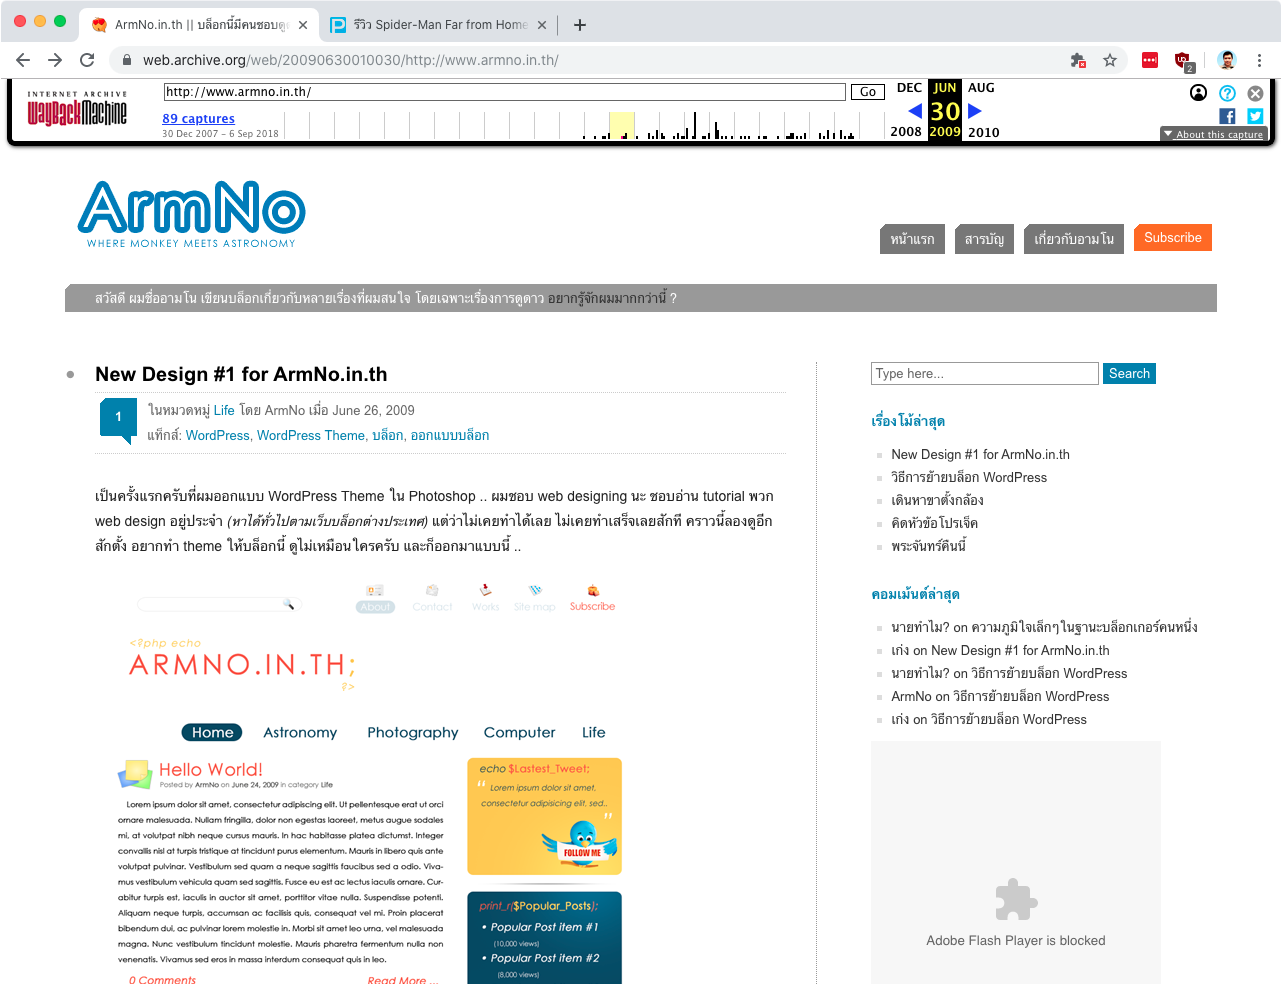
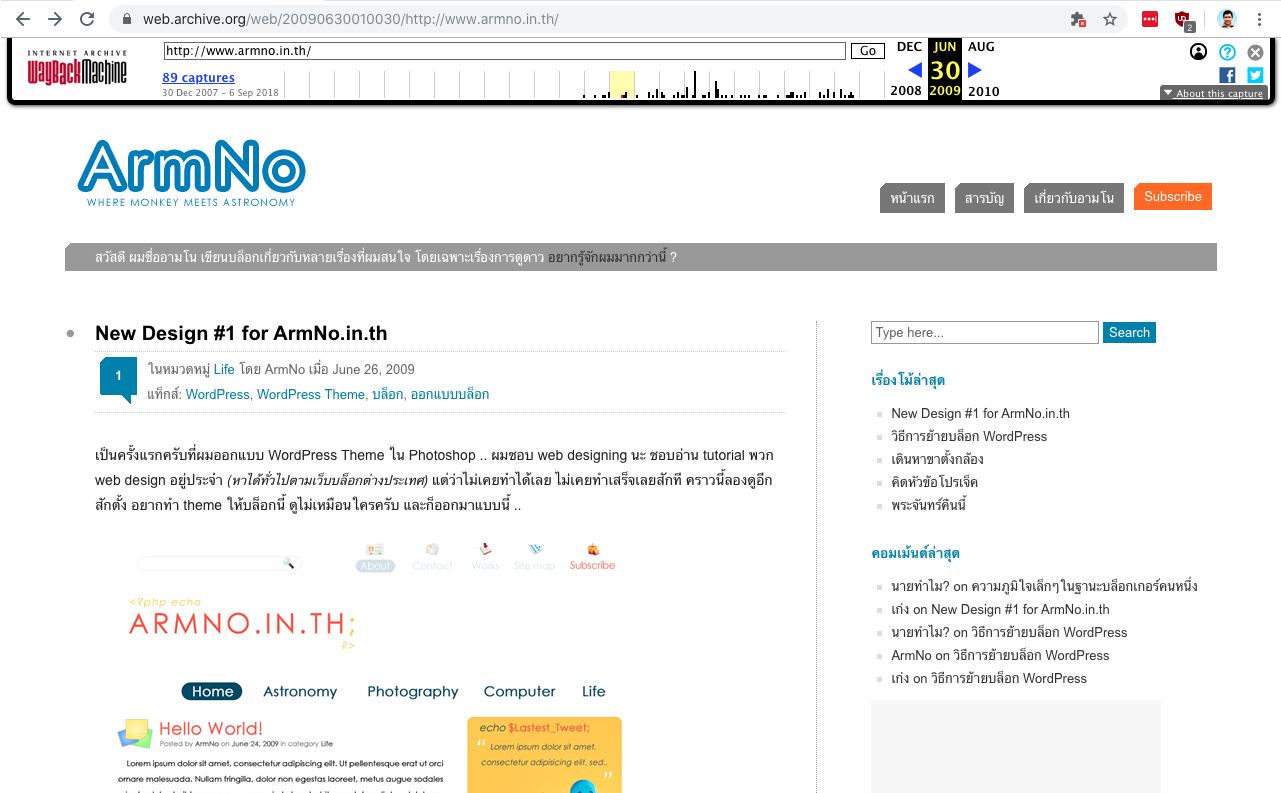
finish the post

diff --git a/content/post/ten-years/index.md b/content/post/ten-years/index.md
@@ -1,8 +1,9 @@
 ---
-title: "สิบปี"
+title: "10 ปี"
 date: 2019-07-03T21:26:45+07:00
 url: /2019/07/03/ten-years
 description: บันทึกครบรอบ 10 ปี ของ armno.in.th
+cover: images/relaunch.png
 tags:
 - life
 - blog
@@ -18,6 +19,14 @@ tags:
 ก็เลยถือโอกาสในวาระที่โดเมนหมดอายุ ฉลองครบรอบ 10 ปี ของบล็อกนี้
 อยากจะเล่าถึงที่มาที่ไป สิ่งที่ได้พบเจอระหว่างทาง ปัจจุบัน และอนาคตของบล็อกนี้ครับ
 
+{{< picture-lazy
+  wrapper-class="semi-full"
+  src="images/relaunch.png"
+  alt="ภาพ screenshot เมื่อ 10 ปีก่อน"
+>}}
+
+_บน: ภาพ snapshot ของบล็อกนี้เมื่อ 10 ปีก่อน จาก [Web Archive](https://web.archive.org/web/20090630010030/http://www.armno.in.th/)_
+
 ## Timeline คร่าวๆ
 
 - ปี 2007 ได้โดเมน armno.in.th มาฟรีจาก[แคมเปญของ THNIC](https://www.blognone.com/node/6472)
@@ -29,6 +38,7 @@ tags:
 - ปี 2013 เปลี่ยนระบบหลังบ้าน[จาก WordPress มาเป็น Jekyll](https://armno.in.th/2013/03/09/from-wordpress-to-jekyll/)
   - รูปในโพสต์เก่าๆ ที่มันหายไปก็ช่วงนี้แหละ
 - ปี 2018 เปลี่ยนจาก [Jekyll มาเป็น Hugo](https://armno.in.th/2018/03/24/jekyll-to-hugo/) จนถึงปัจจุบัน
+
 
 10 ปีก่อน ผมไม่คิดว่าบล็อกนี้จะอยู่ยาวถึง 10 ปี
 หวังแค่ว่า ถ้ามันยังอยู่ ถึงตอนนั้นน่าจะมีปัญญาจ่ายค่าโดเมนเองได้แล้ว
@@ -158,6 +168,13 @@ tags:
 ผมได้ย้อนไปอ่านโพสต์เก่าๆ ของตัวเองที่เขียนไว้เมื่อหลายปีก่อน ที่แย่ๆ ก็เยอะมาก แต่มันก็เป็นเรื่องธรรมดา
 
 **อย่ากลัวว่ามันจะไม่ perfect** ไม่มีใครคาดหวังว่าบล็อกของเราจะต้อง perfect นอกจากตัวเราเอง
+
+{{< picture-lazy
+  wrapper-class="semi-full"
+  src="images/lake.jpg"
+  alt="ทะเลสาบ Kawaguchi"
+  ratio="16-10"
+>}}
 
 -----
 
